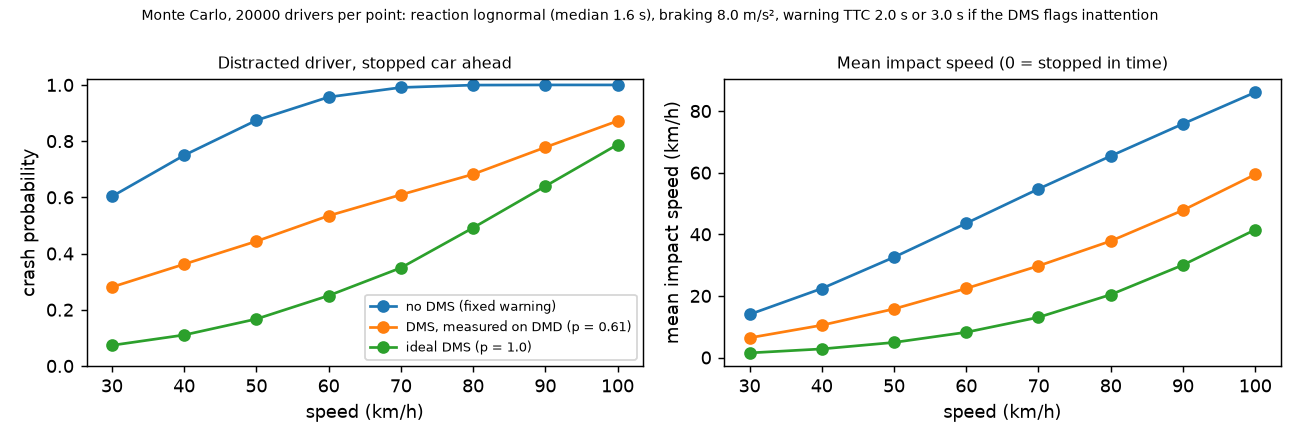
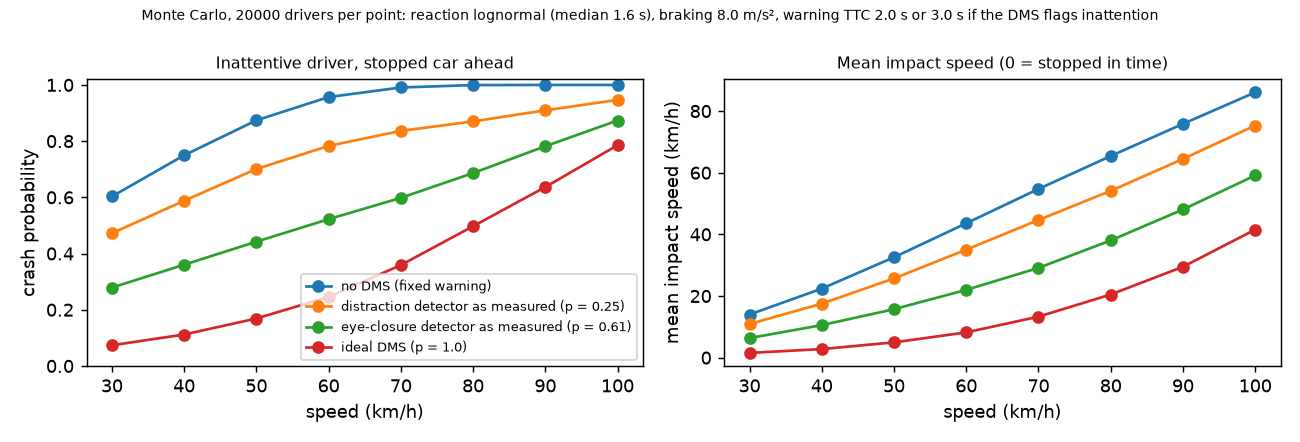
Fixes from an external review: Monte Carlo uses the measured distraction rate for the distracted driver (87 % -> 70 %; 44 % only for eye closure); README states false alerts/h, both label conventions with CI, which arm gives 16/27 at night, demo take was also used for tuning, IR = eye crops, MRM mod

diff --git a/scripts/make_results.py b/scripts/make_results.py
@@ -18,7 +18,8 @@ from evaluate import read, wilson  # noqa: E402
 OUT, RES = ROOT / "out", ROOT / "results"
 COPY = {"carla_fcw.csv": "carla_fcw.csv", "carla_fcw.png": "carla_fcw.png", "synthetic/summary.csv": "synthetic_summary.csv",
         "synthetic/report.pdf": "synthetic_report.pdf", "dmd/summary.csv": "dmd_summary.csv", "dmd/arms.csv": "dmd_arms.csv",
-        "fm/eye_probe.csv": "foundation_eye_probe.csv", "fm/ir_eye_probe.csv": "infrared_eye_probe.csv", "vlm/summary.csv": "vlm_summary.csv"}
+        "fm/eye_probe.csv": "foundation_eye_probe.csv", "fm/ir_eye_probe.csv": "infrared_eye_probe.csv", "vlm/summary.csv": "vlm_summary.csv",
+        "fm/mrl_samples.png": "infrared_eye_samples.png"}  # MRL Eye crops: public dataset, shown with citation (Fusek 2018)
 # DMD measurement steps, default arm: runs in out/dmd_baseline, out/dmd_scope, out/dmd; step 4 = scripts/replay.py on close-only labels
 DMD_STEPS = [("first run", 7, 66, 107), ("+ scoring scope", 7, 62, 18.9), ("+ 20 s calibration", 10, 58, 9.7), ("+ lids-shut labels", 22, 49, 19.4)]
 
@@ -240,7 +241,7 @@ def main():
         ir_chart(OUT / "fm/ir_eye_probe.csv", RES / "infrared_eye_state.png")
     live = ROOT / "data/clips/clip05_live.mp4"  # own face, phone camera, voice-guided take, hand-labelled truth (publishable, unlike DMD)
     if live.exists():
-        live_gif(live, OUT / "live_runs5/camera__clean_frames.csv", OUT / "live_runs5/labels_hand.csv", RES / "demo_live_phone.gif", 21, 51)
+        live_gif(live, OUT / "live_runs5/camera__clean_frames.csv", OUT / "live_runs5/labels_hand.csv", RES / "demo_live_phone.gif", 21, 51, fps=4, width=440)  # small: loaded first on the README
     clip = "synth02_sleep"
     n = demo_gif(ROOT / "data/synthetic" / f"{clip}.mp4", OUT / "synthetic/runs" / f"{clip}__clean_frames.csv",
                  OUT / "synthetic/runs" / f"{clip}__clean_warnings.csv", RES / "demo_synthetic_sleep.gif")

diff --git a/scripts/dms_safety_mc.py b/scripts/dms_safety_mc.py
@@ -13,9 +13,11 @@ ROOT = Path(__file__).resolve().parent.parent
 THR_FIXED, THR_GATED, A_BRAKE = 2.0, 3.0, 8.0  # as carla_fcw.py
 RT_MEDIAN, RT_SIGMA = 1.6, 0.3  # distracted driver's reaction after the warning: lognormal, median 1.6 s (assumption, not measured)
 N = 20000
-# p = share of inattention episodes the DMS catches. 0.61: DMD event-level hit rate (EAR arm, lids-shut labels, E3) as a conservative
-# proxy; 1.0: ideal (the live take caught 4/4, one take only)
-CASES = {"no DMS (fixed warning)": 0.0, "DMS, measured on DMD (p = 0.61)": 0.61, "ideal DMS (p = 1.0)": 1.0}
+# p = share of inattention episodes the DMS catches on time (DMD event-level hit rates, E3). This scenario is a distracted driver,
+# so the matching measured rate is the distraction one (best arm 3/12 = 0.25); 0.61 is the eye-closure rate (EAR, 30/49), i.e. the
+# same kinematics for an eyes-closed driver; 1.0: ideal
+CASES = {"no DMS (fixed warning)": 0.0, "distraction detector as measured (p = 0.25)": 0.25,
+         "eye-closure detector as measured (p = 0.61)": 0.61, "ideal DMS (p = 1.0)": 1.0}
 
 
 def impact_kmh(v_kmh, thr, rt):
@@ -51,7 +53,7 @@ def main():
         r = [x for x in rows if x[0] == name]
         a.plot([x[2] for x in r], [x[3] for x in r], marker="o", label=name)
         b.plot([x[2] for x in r], [x[4] for x in r], marker="o", label=name)
-    a.set(xlabel="speed (km/h)", ylabel="crash probability", ylim=(0, 1.02), title="Distracted driver, stopped car ahead")
+    a.set(xlabel="speed (km/h)", ylabel="crash probability", ylim=(0, 1.02), title="Inattentive driver, stopped car ahead")
     b.set(xlabel="speed (km/h)", ylabel="mean impact speed (km/h)", title="Mean impact speed (0 = stopped in time)")
     a.legend(fontsize=7)
     for ax in (a, b):

diff --git a/README.md b/README.md
@@ -7,10 +7,10 @@ This project builds such a driver monitor from open tools, **tests it the way a 
 it to a car in the CARLA simulator to see what the warning is worth on the road.
 
 <p align="center">
-  <img src="results/demo_live_phone.gif" width="600" alt="Live test with a phone camera: eyes closed, looking down, head turned; warnings fire">
+  <img src="results/demo_live_phone.gif" width="440" alt="Live test with a phone camera: eyes closed, looking down, head turned; warnings fire">
 </p>
 <p align="center"><sub>Live phone camera. Green/red: the system's decision per frame. Yellow: truth, labelled by hand without seeing
-the output. 4 of 4 warnings within ±0.2 s, 0 false alerts (one take: a demo, not a statistic).
+the output. 4 of 4 warnings within ±0.2 s, 0 false alerts. One take, and a look-down fix was tuned on it: a demo, not a statistic.
 <a href="https://raw.githubusercontent.com/HarishDeepak/driver-attention-bench/main/results/videos/live_phone_take5.mp4">Full take (MP4)</a></sub></p>
 
 ## How it works
@@ -26,33 +26,69 @@ flowchart LR
 
 Details: [architecture](docs/ARCHITECTURE.md) · [how warnings are scored](docs/METHOD.md) · [every experiment](docs/EXPERIMENTS.md).
 
+**Terms.** *Microsleep / sleep*: eyes closed 1.5 s / 3 s. *SD-202*: Euro NCAP's driver-state test protocol. *EAR*: eye aspect
+ratio, eyelid opening from face points. *PERCLOS*: share of time the eyes are closed. *KSS*: 1-9 sleepiness self-rating.
+*MRM*: minimal-risk manoeuvre, the car stopping itself safely. *False alerts/h*: warnings with no real event, per hour of video.
+
+## What's inside
+
+**Data: six sources, each answering a different question**
+
+| Data | What it is | Why it is here | Used in |
+|---|---|---|---|
+| Synthetic drivers (Blender + MPFB2) | 6 rendered clips, exact labels, sunglasses / mask | check the pipeline where the truth is perfect | step 1 |
+| DMD (Vicomtech) | 13 videos of 6 real drivers, frame labels | real faces, acted closures and glances | steps 2, 3, 6 |
+| Own phone takes | voice-guided live recordings, labelled by hand | live camera, end to end | top demo, step 5 |
+| NITYMED | 19 night drives in real cars | darkness, real microsleeps | steps 4, 6 |
+| MRL Eye | infrared eye crops, 37 people (17k of 85k sampled) | infrared, as in car cameras | step 3 |
+| UTA-RLDD | 18 × 10 min, 6 people alert / low vigilant / drowsy | natural, not acted, drowsiness | step 6 |
+
+**Methods: from cheap and fast to heavy and slow**
+
+| Method | What it is | Runs at | Verdict |
+|---|---|---|---|
+| Blink score, EAR | eyelid opening from MediaPipe face points | 35-58 fps, CPU | used for all warnings |
+| Head pose + eye direction, MobileGaze | where the driver looks | 12-58 fps | head pose default; MobileGaze too slow |
+| DINOv2, CLIP + linear probe | foundation-model features of the eye | ~4 ms, GPU | as good as EAR, not better |
+| Llama 3.2 Vision, Nemotron VL | chat-style vision models asked "eyes closed?" | 3-9 s per frame | near guessing; offline only |
+| SD-202 timers + drowsiness level | turn per-frame states into warnings and a level | instant | the decision layer |
+| CARLA escalation, Monte Carlo | what the car does, and what it is worth | simulator | the payoff |
+
 ## The story in six steps
 
 **1. Build it and check it where the truth is exact.** Computer-generated drivers (Blender) have perfect labels: 15 of 18
-warnings on time, 0 false alerts. The 3 misses are eyes behind dark sunglasses, reported as "unknown" on purpose.
+warnings on time, 0 false alerts. The 3 misses are eyes behind dark sunglasses, reported as "unknown" on purpose. These clips
+were also used to fix bugs, so this is a regression check, not a validation.
 
-**2. Real drivers: most failures were in the test, not the detector.** On the DMD dataset the first run caught 7 of 66 events
-in time. Scoring only where labels exist, a longer calibration and defining "closed" as lids actually shut raised that to
-22 of 49 with the same detector (30 of 49 with the eye-aspect-ratio signal).
+**2. Real drivers: many failures were in the test, not the detector, and it is still far from production.** On the DMD dataset
+the first run caught 7 of 66 events in time. Scoring only where labels exist and a longer calibration gave 10 of 58; counting
+"closed" only when the lids are actually shut (SD-202 times eye closure) gave 22 of 49 (95 % CI 0.32-0.59) with the same
+detector, 31 of 49 with EAR. The cost: 19 (default) to 41 (EAR) false alerts per hour, and 27 of 49 events with the default
+detector are still missed or off by more than 0.2 s.
 
 <p align="center"><img src="results/dmd_steps.png" width="560" alt="DMD hit rate per measurement fix"></p>
 
 **3. Big AI models did not beat simple signals.** Foundation models (DINOv2, CLIP) recognise closed eyes as well as a simple
 eyelid measurement (≈ 97 % per frame) but not better; chat-style vision models were near guessing and took seconds per frame.
-Infrared matters: a model trained on daylight drops to 0.69-0.76 on real infrared eyes, 0.93-0.94 when trained on infrared.
+Infrared matters: on infrared eye crops (not a whole-face cabin camera), a model trained on daylight drops to 0.69-0.76,
+0.93-0.94 when trained on infrared; glasses and reflections are the hard cases.
+
+<p align="center"><img src="results/infrared_eye_samples.png" width="760" alt="Infrared eye crops: open and closed in good light, bad light, with glasses, with reflections"></p>
+<p align="center"><sub>Infrared eyes, open (top) and closed (bottom), by condition. MRL Eye dataset (Fusek 2018), shown with citation.</sub></p>
 
 **4. Night drivers exposed a calibration flaw.** On real night-time videos (NITYMED) the system often said "open" while the eyes
-were shut: the driver's "normal" face was learned during a blink. A robust calibration raised hand-labelled hits from 7 to 16 of 27
-without hurting any other dataset.
+were shut: the driver's "normal" face was learned during a blink. A robust calibration raised hand-labelled hits from 7 to 10
+of 27 with no change on any other dataset; switching to EAR reached 16 of 27, but adds false alerts on DMD and the phone take.
 
 <p align="center"><img src="results/demo_night_nitymed.gif" width="520" alt="Night-time driver: microsleep and sleep warnings"></p>
 <p align="center"><sub>Night driving, real car (NITYMED, CC BY 4.0, Petrellis et al.); yellow = hand-labelled truth.
 <a href="https://raw.githubusercontent.com/HarishDeepak/driver-attention-bench/main/results/videos/night_nitymed_P1042793.mp4">Full video (MP4)</a></sub></p>
 
 **5. What is a warning worth on the road?** In CARLA, a driver who stays asleep gets warning → slow-down → a minimal-risk
-manoeuvre (hazards, move right if the lane is free, stop at its edge, as in UN R157). For a distracted driver, warning earlier
-because the camera saw the distraction avoids crashes at 30-50 km/h. Plugging the accuracy measured on real drivers into a
-Monte Carlo: at 50 km/h the crash rate falls from 87 % (no camera) to 44 % (this detector) and 17 % (a perfect one).
+manoeuvre (hazards, move right if the lane is free, stop at its edge; profile borrowed from UN R157, which itself covers automated
+lane keeping). For an inattentive driver, warning earlier because the camera saw it avoids crashes at 30-50 km/h. Plugging the
+accuracy measured on real drivers into a Monte Carlo, at 50 km/h the crash rate falls from 87 % (no camera) to 70 % with the
+measured gaze detector (it catches 3 of 12 glances), 44 % with the measured eye-closure detector and 17 % with a perfect one.
 
 <p align="center">
   <img src="results/demo_carla_safe_stop.gif" width="420" alt="CARLA: slowing, minimal-risk manoeuvre, lane change right, stop at the lane edge">
@@ -65,9 +101,9 @@ Monte Carlo: at 50 km/h the crash rate falls from 87 % (no camera) to 44 % (this
 **6. Drowsy is not asleep.** Euro NCAP wants a drowsy driver warned and the collision warning made earlier; only an
 *unresponsive* driver gets an automatic stop. So a drowsiness level (0-3) now counts microsleeps over 5 minutes, long blinks and
 the share of time the eyes are closed; level 3 caps the speed at 60 km/h (my assumption). Two findings: looking down lowers
-the eyelids and was being counted as drowsiness (fixed: false levels on alert drivers 4/6 → 1/6); and on real-life video of 6
-people (UTA-RLDD) the level never fired on an alert person, but caught only 2 of 6 self-rated drowsy ones: it detects repeated
-microsleeps, not early, quiet drowsiness.
+the eyelids and was being counted as drowsiness (fixed: false levels on alert DMD drivers 4/6 → 1/6); and on real-life video of
+6 people (UTA-RLDD) the level fired on 0 of 6 alert videos, but caught only 2 of 6 self-rated drowsy ones, one of them doubtful:
+it detects repeated microsleeps, not early, quiet drowsiness.
 
 <p align="center"><img src="results/demo_drowsiness_carla.gif" width="700" alt="Night driver drives CARLA: repeated microsleeps raise the drowsiness level to 3 and the speed is capped at 60 km/h"></p>
 <p align="center"><sub>A night driver's video drives the CARLA car: repeated microsleeps → level 3 at 37 s → 60 km/h.
@@ -81,9 +117,13 @@ microsleeps, not early, quiet drowsiness.
 
 ## Run
 
+Without any dataset you can run the self-checks, a live webcam, and the CARLA demo with a simulated driver. The dataset results
+need DMD / NITYMED / UTA-RLDD / MRL Eye, downloaded from their owners (see Data and licence).
+
 ```bash
-pip install -r requirements.txt            # Python 3.12; models go in models/ (links below)
-python src/dms_core.py && python src/signals.py && python src/drowsiness.py && python src/escalation.py   # self-checks
+pip install -r requirements.txt            # Python 3.12 (carla / torch only needed for the simulator / foundation-model parts)
+mkdir -p models && curl -L -o models/face_landmarker.task https://storage.googleapis.com/mediapipe-models/face_landmarker/face_landmarker/float16/1/face_landmarker.task
+python src/dms_core.py && python src/signals.py && python src/drowsiness.py && python src/escalation.py   # self-checks (also in CI)
 
 python scripts/run_clip.py <video.mp4 | camera-index> --show [--eye ear]           # one video or camera, live overlay
 bash run_suite.sh scenarios/synthetic.toml                                        # suite → scores → PDF report (Linux / WSL)
@@ -91,8 +131,8 @@ python scripts/live_demo.py sim:2-40 --headless --video out.mp4                 
 bash scripts/ros2/record.sh                                                       # ROS 2 Jazzy: /dms/state + rosbag
 ```
 
-Models (not in git): [`face_landmarker.task`](https://storage.googleapis.com/mediapipe-models/face_landmarker/face_landmarker/float16/1/face_landmarker.task);
-optional `yunet.onnx` (opencv_zoo `face_detection_yunet_2023mar.onnx`) and `mobileone_s0_gaze.onnx` (MobileGaze, MIT).
+Optional models: `yunet.onnx` (opencv_zoo `face_detection_yunet_2023mar.onnx`) and `mobileone_s0_gaze.onnx` (MobileGaze, MIT).
+CARLA: set `CARLA_ROOT` if it is not in `C:\carla\CARLA_0.9.16`; `run_suite.sh` takes the Python path from `PY`.
 Optional parts (ROS 2, Blender, Cosmos): [`docs/details/`](docs/details/).
 
 ## Data and licence

diff --git a/docs/EXPERIMENTS.md b/docs/EXPERIMENTS.md
@@ -6,17 +6,17 @@ Scoring rules: [`METHOD.md`](METHOD.md) section 4.
 | # | Question | Answer in one line |
 |---|---|---|
 | E1 | Does the pipeline work where labels are exact? | Synthetic drivers: 15/18 warnings on time, 0 false alerts |
-| E2 | How does it do on real drivers? | DMD: 7/66 → 22/49, mostly by fixing the test setup, not the detector |
-| E3 | Which eye / gaze signal? | EAR beats the blink score on DMD (30/49); tuning one threshold does not transfer |
+| E2 | How does it do on real drivers? | DMD: 7/66 → 22/49 (0.31-0.59) at 19 false alerts/h, mostly by fixing the test setup; still far from production |
+| E3 | Which eye / gaze signal? | EAR beats the blink score on DMD (30-31/49, more false alerts); gaze only 2-3/12; tuning one threshold does not transfer |
 | E4 | Do foundation models help? | DINOv2 / CLIP probes ≈ simple eyelid signals (~0.97); zero-shot CLIP is weak |
 | E5 | Do VLMs help? | Near chance on eyelids, seconds per frame: offline use only |
 | E6 | Does driver state matter for the car? | Earlier collision warning for an inattentive driver avoids crashes at 30-50 km/h |
 | E7 | Is it fast enough? | 35-58 fps on CPU; heavier models fall below 25 fps |
 | E8 | Does it work live on my own face? | 4/4 on time after fixing a look-down bug the live take found |
 | E9 | Does daylight training work on infrared? | No: 0.69-0.76; IR-trained 0.93-0.94 |
-| E10 | Real face drives the car; detector accuracy → crashes | MRM like UN R157; crash rate at 50 km/h 87 % → 44 % |
-| E11 | Night-time drivers? | Robust calibration: 7 → 16/27 hits |
-| E12 | Drowsy (not asleep): what should the car do? | Drowsiness level: 0 false levels on alert people, but catches only drowsiness with microsleeps (2/6) |
+| E10 | Real face drives the car; detector accuracy → crashes | MRM modelled on UN R157; crash rate at 50 km/h 87 % → 70 % (distraction) / 44 % (eye closure) |
+| E11 | Night-time drivers? | Robust calibration: 7 → 10/27 hits (blink score); 16/27 with EAR, at more false alerts on DMD |
+| E12 | Drowsy (not asleep): what should the car do? | Drowsiness level: 0/6 alert videos with a false level, but only 2/6 drowsy ones caught (one doubtful) |
 
 ## E1. Synthetic drivers (Blender, 6 clips, exact labels)
 
@@ -156,6 +156,10 @@ images (8,492 closed). MediaPipe blink/EAR cannot run on eye crops (they need a 
 CLIP IR probe by condition: bad lighting 0.93 vs good 0.94; glasses 0.88 vs none 0.96; big reflections 0.86 vs none 0.95.
 GPU forward pass: DINOv2-small 1.3 ms, CLIP ViT-B/32 0.7 ms per eye image.
 
+![Infrared eye samples by condition](../results/infrared_eye_samples.png)
+*MRL Eye samples (Fusek, ISVC 2018; publicly available, no licence stated, cropped eyes shown with citation, removed on request):
+open vs closed in good light, bad light, with glasses and with big reflections.*
+
 ![Infrared eye-state results](../results/infrared_eye_state.png)
 
 **Reading:** a model trained on daylight RGB drops to 0.69-0.76 on infrared: the day-to-night domain gap is real. Trained on IR it
@@ -172,7 +176,9 @@ Two fixes made on the way: video frames (30 fps) now all feed the DMS while the 
 tick per frame ran the car 1.5x slow); the Traffic Manager is pinned to the start lane (`tm.set_path`), because a replay showed the
 minimal-risk stop ending at a highway-exit gore instead of in lane. The scene now loads props, street lights, buildings and foliage on top of the ground layer (fits the 6 GB GPU, ~2.7 GB) and adds six Traffic-Manager cars in the neighbouring lanes, so the slow-down and the stop in lane are visible against traffic.
 
-**Minimal-risk manoeuvre, done like the regulation and CARLA's own planner.** UN R157 (automated lane keeping, https://unece.org/sites/default/files/2023-12/R157e.pdf) requires the MRM to
+**Minimal-risk manoeuvre, modelled on UN R157 and done with CARLA's own planner.** R157 governs automated lane keeping (ALKS), not a
+stop triggered by a driver monitor in a manually driven car, so this borrows its MRM profile rather than claiming compliance.
+R157 (https://unece.org/sites/default/files/2023-12/R157e.pdf) requires the MRM to
 slow the car "inside the lane" at ≤ 4 m/s², hazard lights from its start, standstill, and no move-off without manual input. On top,
 as some production systems do, the car now moves to the slower lane first when that is safe: at the MRM start CARLA's reference
 `BasicAgent` (LocalPlanner + PID) takes over from the Traffic Manager; each tick it checks, exactly like CARLA's `BehaviorAgent`,
@@ -183,19 +189,21 @@ hazards and brake lights on, a following car stops behind it. If the lane is occ
 Bug fixed on the way: the escalation ramp fed the measured speed back every tick, so controller overshoot ratcheted the target
 down (~5 m/s² instead of 2); it is now a time-based ramp from the speed at MRM start (self-check added), measured 2.0 m/s² in CARLA.
 
-**Monte Carlo** (`scripts/dms_safety_mc.py`): distracted driver, stopped car ahead, kinematics and thresholds as the CARLA sweep
+**Monte Carlo** (`scripts/dms_safety_mc.py`): inattentive driver, stopped car ahead, kinematics and thresholds as the CARLA sweep
 (warning TTC 2.0 s, or 3.0 s when the DMS flags inattention; braking 8 m/s²), reaction time lognormal with median 1.6 s (assumption),
-20,000 drivers per point. The DMS catches the inattention with probability p.
+20,000 drivers per point. The DMS catches the inattention with probability p, taken from the DMD event-level hit rates (E3):
+distraction 3/12 = 0.25 (best gaze arm) for a driver looking away, eye closure 30/49 = 0.61 (EAR) for a driver whose eyes close.
 
-| Speed | No DMS: crash / mean impact | DMS, p = 0.61 (DMD, EAR arm): crash / impact | Ideal DMS, p = 1: crash / impact |
-|---|---|---|---|
-| 30 km/h | 60 % / 14 km/h | 28 % / 6 km/h | 7 % / 2 km/h |
-| 50 km/h | 87 % / 33 km/h | 44 % / 16 km/h | 17 % / 5 km/h |
-| 80 km/h | 100 % / 65 km/h | 68 % / 38 km/h | 49 % / 20 km/h |
+| Speed | No DMS | Distraction detector, p = 0.25 | Eye-closure detector, p = 0.61 | Ideal, p = 1 |
+|---|---|---|---|---|
+| 30 km/h | 60 % / 14 km/h | 47 % / 11 km/h | 28 % / 6 km/h | 7 % / 2 km/h |
+| 50 km/h | 87 % / 33 km/h | 70 % / 26 km/h | 44 % / 16 km/h | 17 % / 5 km/h |
+| 80 km/h | 100 % / 65 km/h | 87 % / 54 km/h | 69 % / 38 km/h | 50 % / 21 km/h |
 
-The kinematic model reproduces the CARLA sweep case (30 km/h, fixed warning: 14.2 km/h impact). p = 0.61 is a conservative proxy
-(event-level hit rate within ±0.2 s on DMD); a distraction caught 0.5 s late would still move the warning earlier. The result is a
-model, but it links the perception metric to a vehicle-level outcome, which is what a requirement for DMS accuracy needs.
+Cells: crash probability / mean impact speed. The kinematic model reproduces the CARLA sweep case (30 km/h, fixed warning: 14.2 km/h
+impact). An earlier version used 0.61 for the distracted driver and called it conservative; it was the wrong event (a review caught
+it). The weak gaze detector (3/12) is the bottleneck for distraction. The result is a model, but it links a perception metric to a
+vehicle-level outcome, which is what a requirement for DMS accuracy needs.
 
 ![DMS safety Monte Carlo](../results/dms_safety_mc.png)
 
@@ -244,7 +252,7 @@ do more than beep. What do regulations and car makers actually do? Sources check
   warning; the Emergency Function then starts by 12-13 s. Our existing MRM at 13 s closed / 14 s away matches that timeline.
 - **EU DDAW** (Reg. 2021/1341): warning at KSS ≥ 8; **ADDW** (Reg. 2023/2590): distraction warning. Warnings only.
 - Production: VW Emergency Assist, Volvo EX90 and Ford BlueCruise slow / stop the car for an **unresponsive** driver; Mercedes and
-  BMW details only from secondary sources [verify]. No production system found that slows a merely drowsy driver [verify].
+  BMW details only from secondary sources. No production system that slows a merely drowsy driver was found in the sources checked.
 
 **Design** (`src/drowsiness.py`, beside the unchanged SD-202 `Monitor`). A KSS-like level from three cues, each over a window:
 microsleep warnings in the last 5 min, long blinks (closed ≥ 0.5 s) in the last minute, PERCLOS over 60 s (used only once its
